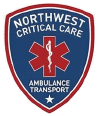
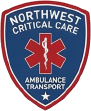
Clean up the Trusted By row
- Removed Hulu and Onyx Collective pending the client's sign-off. Their
  image files stay in the repo so putting them back is a markup change.
- Knocked the white boxes out of the eight remaining marks. Uses an
  edge-seeded flood fill rather than a blanket white-to-alpha swap, so
  white that is part of a mark survives: the counters in the Heisenberg
  H, the numeral in the Channel 5 disc, the cross on the Northwest
  shield. Transparent margins trimmed afterwards so each mark fills its
  own box.
- Marks are roughly 30% larger, keeping the per-mark heights: a wide
  wordmark and a tall badge cannot share one height without the wordmark
  shouting over the row.
- Fixed four across instead of letting flex wrap eight into 6+2, which
  read as an accident.
- "Trusted By" moves from 22px serif to letterspaced uppercase sans in
  gold, so it reads as a label for the row rather than a heading
  competing with the section titles above it.

Claude-Session: https://claude.ai/code/session_01TxBmwVpNciJocDRpmjnHxx

diff --git a/site/about.html b/site/about.html
@@ -133,16 +133,14 @@
 <section id="clients">
   <div class="clients-header fade-up">Trusted By</div>
   <div class="clients-grid fade-up">
-    <img class="client-logo cl-onyx"       src="/assets/img/clients/onyx.png"         width="207" height="88"  loading="lazy" alt="Onyx Collective">
-    <img class="client-logo cl-heisenberg" src="/assets/img/clients/heisenberg.png"   width="111" height="120" loading="lazy" alt="Heisenberg Transportation">
-    <img class="client-logo cl-viox"       src="/assets/img/clients/viox.png"         width="132" height="88"  loading="lazy" alt="VioX AI">
-    <img class="client-logo cl-ch5"        src="/assets/img/clients/channel5.png"     width="93"  height="92"  loading="lazy" alt="Channel 5">
-    <img class="client-logo cl-superior"   src="/assets/img/clients/superior.png"     width="157" height="92"  loading="lazy" alt="Superior Real Estate Services">
-    <img class="client-logo cl-nw"         src="/assets/img/clients/northwest.png"    width="98"  height="116" loading="lazy" alt="Northwest Critical Care Ambulance Transport">
-    <img class="client-logo cl-hulu"       src="/assets/img/clients/hulu.png"         width="159" height="60"  loading="lazy" alt="Hulu">
-    <img class="client-logo cl-adfero"     src="/assets/img/clients/adfero.png"       width="230" height="52"  loading="lazy" alt="Adfero">
-    <img class="client-logo cl-kr"         src="/assets/img/clients/kathy-romero.png" width="127" height="100" loading="lazy" alt="Kathy Romero">
-    <img class="client-logo cl-chubb"      src="/assets/img/clients/chubb.png"        width="289" height="48"  loading="lazy" alt="Chubb">
+    <img class="client-logo cl-heisenberg" src="/assets/img/clients/heisenberg.png"   width="105" height="113" loading="lazy" alt="Heisenberg Transportation">
+    <img class="client-logo cl-viox"       src="/assets/img/clients/viox.png"         width="126" height="81"  loading="lazy" alt="VioX AI">
+    <img class="client-logo cl-ch5"        src="/assets/img/clients/channel5.png"     width="86"  height="87"  loading="lazy" alt="Channel 5">
+    <img class="client-logo cl-superior"   src="/assets/img/clients/superior.png"     width="149" height="84"  loading="lazy" alt="Superior Real Estate Services">
+    <img class="client-logo cl-nw"         src="/assets/img/clients/northwest.png"    width="91"  height="111" loading="lazy" alt="Northwest Critical Care Ambulance Transport">
+    <img class="client-logo cl-adfero"     src="/assets/img/clients/adfero.png"       width="217" height="39"  loading="lazy" alt="Adfero">
+    <img class="client-logo cl-kr"         src="/assets/img/clients/kathy-romero.png" width="123" height="92"  loading="lazy" alt="Kathy Romero">
+    <img class="client-logo cl-chubb"      src="/assets/img/clients/chubb.png"        width="283" height="34"  loading="lazy" alt="Chubb">
   </div>
 </section>
 

diff --git a/site/index.html b/site/index.html
@@ -269,16 +269,14 @@
 <section id="clients">
   <div class="clients-header fade-up">Trusted By</div>
   <div class="clients-grid fade-up">
-    <img class="client-logo cl-onyx"       src="/assets/img/clients/onyx.png"         width="207" height="88"  loading="lazy" alt="Onyx Collective">
-    <img class="client-logo cl-heisenberg" src="/assets/img/clients/heisenberg.png"   width="111" height="120" loading="lazy" alt="Heisenberg Transportation">
-    <img class="client-logo cl-viox"       src="/assets/img/clients/viox.png"         width="132" height="88"  loading="lazy" alt="VioX AI">
-    <img class="client-logo cl-ch5"        src="/assets/img/clients/channel5.png"     width="93"  height="92"  loading="lazy" alt="Channel 5">
-    <img class="client-logo cl-superior"   src="/assets/img/clients/superior.png"     width="157" height="92"  loading="lazy" alt="Superior Real Estate Services">
-    <img class="client-logo cl-nw"         src="/assets/img/clients/northwest.png"    width="98"  height="116" loading="lazy" alt="Northwest Critical Care Ambulance Transport">
-    <img class="client-logo cl-hulu"       src="/assets/img/clients/hulu.png"         width="159" height="60"  loading="lazy" alt="Hulu">
-    <img class="client-logo cl-adfero"     src="/assets/img/clients/adfero.png"       width="230" height="52"  loading="lazy" alt="Adfero">
-    <img class="client-logo cl-kr"         src="/assets/img/clients/kathy-romero.png" width="127" height="100" loading="lazy" alt="Kathy Romero">
-    <img class="client-logo cl-chubb"      src="/assets/img/clients/chubb.png"        width="289" height="48"  loading="lazy" alt="Chubb">
+    <img class="client-logo cl-heisenberg" src="/assets/img/clients/heisenberg.png"   width="105" height="113" loading="lazy" alt="Heisenberg Transportation">
+    <img class="client-logo cl-viox"       src="/assets/img/clients/viox.png"         width="126" height="81"  loading="lazy" alt="VioX AI">
+    <img class="client-logo cl-ch5"        src="/assets/img/clients/channel5.png"     width="86"  height="87"  loading="lazy" alt="Channel 5">
+    <img class="client-logo cl-superior"   src="/assets/img/clients/superior.png"     width="149" height="84"  loading="lazy" alt="Superior Real Estate Services">
+    <img class="client-logo cl-nw"         src="/assets/img/clients/northwest.png"    width="91"  height="111" loading="lazy" alt="Northwest Critical Care Ambulance Transport">
+    <img class="client-logo cl-adfero"     src="/assets/img/clients/adfero.png"       width="217" height="39"  loading="lazy" alt="Adfero">
+    <img class="client-logo cl-kr"         src="/assets/img/clients/kathy-romero.png" width="123" height="92"  loading="lazy" alt="Kathy Romero">
+    <img class="client-logo cl-chubb"      src="/assets/img/clients/chubb.png"        width="283" height="34"  loading="lazy" alt="Chubb">
   </div>
 </section>
 

diff --git a/tools/sections/clients.html b/tools/sections/clients.html
@@ -2,15 +2,13 @@
 <section id="clients">
   <div class="clients-header fade-up">Trusted By</div>
   <div class="clients-grid fade-up">
-    <img class="client-logo cl-onyx"       src="/assets/img/clients/onyx.png"         width="207" height="88"  loading="lazy" alt="Onyx Collective">
-    <img class="client-logo cl-heisenberg" src="/assets/img/clients/heisenberg.png"   width="111" height="120" loading="lazy" alt="Heisenberg Transportation">
-    <img class="client-logo cl-viox"       src="/assets/img/clients/viox.png"         width="132" height="88"  loading="lazy" alt="VioX AI">
-    <img class="client-logo cl-ch5"        src="/assets/img/clients/channel5.png"     width="93"  height="92"  loading="lazy" alt="Channel 5">
-    <img class="client-logo cl-superior"   src="/assets/img/clients/superior.png"     width="157" height="92"  loading="lazy" alt="Superior Real Estate Services">
-    <img class="client-logo cl-nw"         src="/assets/img/clients/northwest.png"    width="98"  height="116" loading="lazy" alt="Northwest Critical Care Ambulance Transport">
-    <img class="client-logo cl-hulu"       src="/assets/img/clients/hulu.png"         width="159" height="60"  loading="lazy" alt="Hulu">
-    <img class="client-logo cl-adfero"     src="/assets/img/clients/adfero.png"       width="230" height="52"  loading="lazy" alt="Adfero">
-    <img class="client-logo cl-kr"         src="/assets/img/clients/kathy-romero.png" width="127" height="100" loading="lazy" alt="Kathy Romero">
-    <img class="client-logo cl-chubb"      src="/assets/img/clients/chubb.png"        width="289" height="48"  loading="lazy" alt="Chubb">
+    <img class="client-logo cl-heisenberg" src="/assets/img/clients/heisenberg.png"   width="105" height="113" loading="lazy" alt="Heisenberg Transportation">
+    <img class="client-logo cl-viox"       src="/assets/img/clients/viox.png"         width="126" height="81"  loading="lazy" alt="VioX AI">
+    <img class="client-logo cl-ch5"        src="/assets/img/clients/channel5.png"     width="86"  height="87"  loading="lazy" alt="Channel 5">
+    <img class="client-logo cl-superior"   src="/assets/img/clients/superior.png"     width="149" height="84"  loading="lazy" alt="Superior Real Estate Services">
+    <img class="client-logo cl-nw"         src="/assets/img/clients/northwest.png"    width="91"  height="111" loading="lazy" alt="Northwest Critical Care Ambulance Transport">
+    <img class="client-logo cl-adfero"     src="/assets/img/clients/adfero.png"       width="217" height="39"  loading="lazy" alt="Adfero">
+    <img class="client-logo cl-kr"         src="/assets/img/clients/kathy-romero.png" width="123" height="92"  loading="lazy" alt="Kathy Romero">
+    <img class="client-logo cl-chubb"      src="/assets/img/clients/chubb.png"        width="283" height="34"  loading="lazy" alt="Chubb">
   </div>
 </section>

diff --git a/site/assets/css/site.css b/site/assets/css/site.css
@@ -635,36 +635,35 @@ html.anim .fade-up { opacity: 0; transform: translateY(30px); }
   text-align: center;
 }
 .clients-header {
-  font-family: var(--serif); font-size: 22px; font-weight: 400;
-  color: var(--muted); margin-bottom: 48px; letter-spacing: 0.01em;
+  font-family: var(--sans); font-size: 13px; font-weight: 500;
+  text-transform: uppercase; letter-spacing: 0.22em;
+  color: var(--gold-dark); margin-bottom: 56px;
 }
 .clients-grid {
-  display: flex; flex-wrap: wrap;
-  justify-content: center; align-items: center;
-  gap: 48px 64px; max-width: 1000px; margin: 0 auto;
+  display: grid; grid-template-columns: repeat(4, 1fr);
+  justify-items: center; align-items: center;
+  gap: 56px 48px; max-width: 920px; margin: 0 auto;
 }
 .client-logo {
   flex-shrink: 0; width: auto;
-  opacity: 0.72; transition: opacity 0.3s;
+  opacity: 0.8; transition: opacity 0.3s;
   filter: saturate(0.9);
 }
 .client-logo:hover { opacity: 1; filter: none; }
 
 /* Heights are set per mark, not shared: a bold wide wordmark at the same
    height as a badge with fine internal type shouts over the whole row. */
-.cl-onyx       { height: 44px; }
-.cl-heisenberg { height: 60px; }
-.cl-viox       { height: 44px; }
-.cl-ch5        { height: 46px; }
-.cl-superior   { height: 46px; }
-.cl-nw         { height: 58px; }
-.cl-hulu       { height: 30px; }
-.cl-adfero     { height: 26px; }
-.cl-kr         { height: 50px; }
-.cl-chubb      { height: 24px; }
+.cl-heisenberg { height: 78px; }
+.cl-viox       { height: 56px; }
+.cl-ch5        { height: 60px; }
+.cl-superior   { height: 60px; }
+.cl-nw         { height: 76px; }
+.cl-adfero     { height: 34px; }
+.cl-kr         { height: 64px; }
+.cl-chubb      { height: 31px; }
 
 @media (max-width: 768px) {
-  .clients-grid { gap: 32px 40px; }
+  .clients-grid { grid-template-columns: repeat(2, 1fr); gap: 40px 28px; }
 }
 
 /* ═══════════════════════════════════════════
